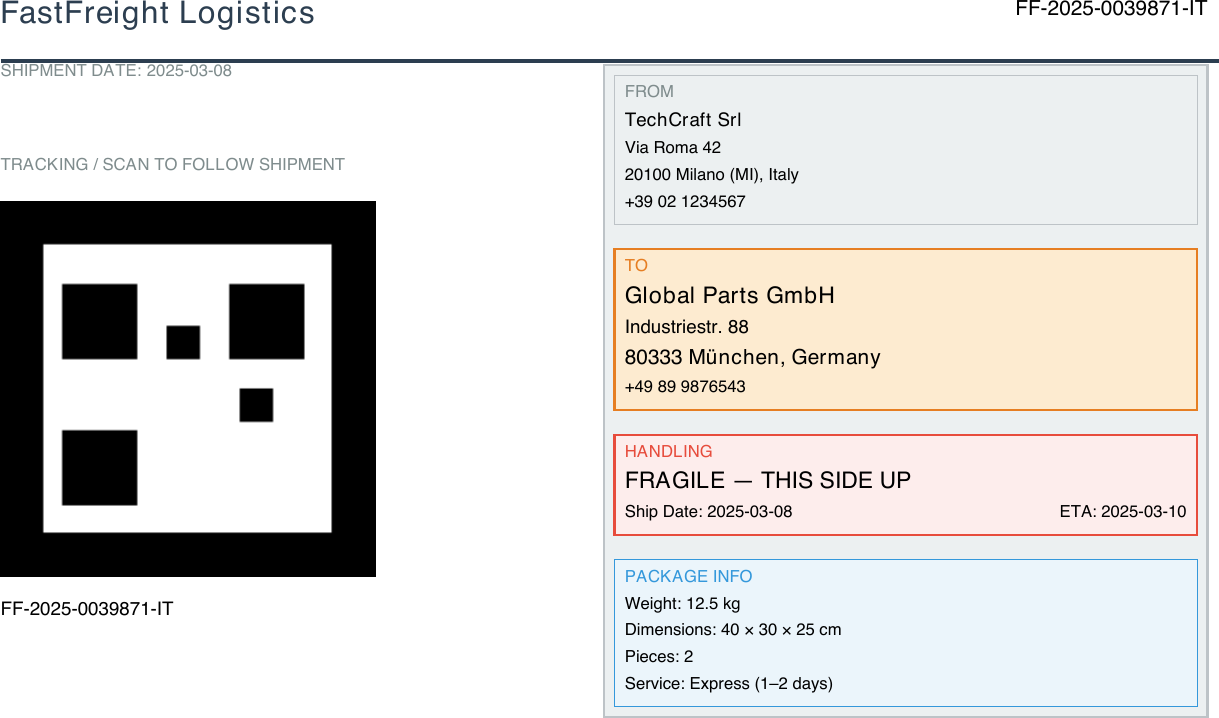
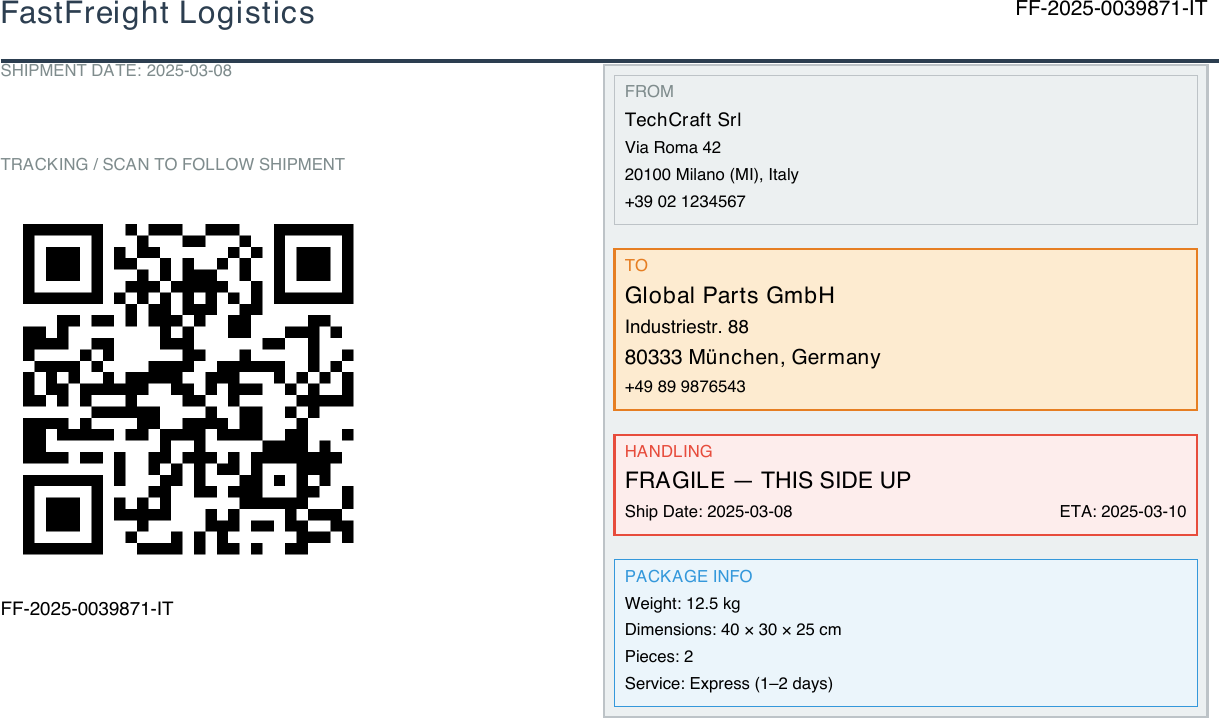
docs: standalone README showcase + real QR in shipping label example
Replace the top-of-README gallery with a single, quality-over-quantity
visual placed right after the "what is Docraft" pitch: one hero image,
the Canvas/Chart snippet that produces it, and one link out to the full
example gallery in the docs.

Also swap the shipping label example's placeholder QR graphic for a
real, scannable QR code (generated with the Python qrcode library) and
re-render its doc image — a small easter egg for anyone who scans it.

Changed region(s): [[0.0, 0.2758, 0.3117, 0.8273]]

diff --git a/README.md b/README.md
@@ -2,36 +2,6 @@
 [![Build and Test](https://github.com/Cadons/Docraft/actions/workflows/build.yml/badge.svg)](https://github.com/Cadons/Docraft/actions/workflows/build.yml)
 [![Documentation](https://github.com/Cadons/Docraft/actions/workflows/docs.yml/badge.svg)](https://github.com/Cadons/Docraft/actions/workflows/docs.yml)
 
-**Write XML, ship a PDF — no LaTeX, no headless browser, no external process.**
-
-<p align="center">
-  <img src="doc/source/_static/sales_report_page1.png" alt="A Docraft-rendered sales report: KPI cards, a pie chart, a bar chart and a trend line, all generated in-process from XML + JSON" width="640">
-</p>
-
-<p align="center"><sub>That entire dashboard is two &lt;Chart&gt; tags on a &lt;Canvas&gt;:</sub></p>
-
-```xml
-<Canvas width="495" height="230">
-    <Chart x="0" y="0" style="pie" width="240" height="220" title="By Product Line">
-        <Series model="${revenue_split}"/>
-    </Chart>
-    <Chart x="250" y="0" style="histogram" width="245" height="220" title="By Region">
-        <Series name="This Quarter" color="#2E86C1" model="${regional_sales}"/>
-    </Chart>
-</Canvas>
-```
-
-<p align="center"><sub>Full template &amp; data: <a href="https://cadons.github.io/docraft/examples/sales_report.html">sales_report.craft example</a></sub></p>
-
-<p align="center">
-  <a href="https://cadons.github.io/docraft/examples/invoice.html"><img src="doc/source/_static/invoice.png" width="200" alt="Invoice example"></a>
-  <a href="https://cadons.github.io/docraft/examples/shipping_label.html"><img src="doc/source/_static/shipping_label.png" width="200" alt="Shipping label example"></a>
-  <a href="https://cadons.github.io/docraft/examples/industrial_report.html"><img src="doc/source/_static/industrial_report_page1.png" width="200" alt="Industrial QC report example"></a>
-</p>
-<p align="center"><sub>Invoice · Shipping label · QC report — browse the <a href="https://cadons.github.io/docraft/examples/index.html">full example gallery</a></sub></p>
-
----
-
 Why Docraft?
 ------------
 
@@ -57,6 +27,29 @@ and Docraft takes care of *how* to lay it out and render it to PDF.
 It ships as a static or shared library that you link into your CMake project.
 The rendering pipeline runs entirely in-process using [libharu](https://github.com/libharu/libharu) as the PDF backend — no spawning of
 external processes, no temporary files, no network calls.
+
+---
+
+<p align="center">
+  <img src="doc/source/_static/sales_report_page1.png" alt="A Docraft-rendered sales report: KPI cards, a pie chart, a bar chart and a trend line, all generated in-process from XML + JSON" width="620">
+</p>
+
+<p align="center"><sub>That entire dashboard is one &lt;Canvas&gt; with two &lt;Chart&gt; tags on it:</sub></p>
+
+```xml
+<Canvas width="495" height="230">
+    <Chart x="0" y="0" style="pie" width="240" height="220" title="By Product Line">
+        <Series model="${revenue_split}"/>
+    </Chart>
+    <Chart x="250" y="0" style="histogram" width="245" height="220" title="By Region">
+        <Series name="This Quarter" color="#2E86C1" model="${regional_sales}"/>
+    </Chart>
+</Canvas>
+```
+
+<p align="center"><sub><a href="https://cadons.github.io/docraft/examples/sales_report.html">Full template &amp; data</a> — more document types (invoices, shipping labels, QC reports...) in the <a href="https://cadons.github.io/docraft/examples/index.html">example gallery</a>.</sub></p>
+
+---
 
 Key Features
 ------------

diff --git a/doc/source/examples/shipping_label.rst b/doc/source/examples/shipping_label.rst
@@ -92,8 +92,9 @@ Data — ``shipping_label.json``
 -------------------------------
 
 ``qr_code`` points at an image file expected next to the ``docraft_tool``
-executable (JSON has no comment syntax, so this can't be noted inline in the
-file itself):
+executable — any PNG works, including a real, scannable QR code generated with
+a tool like `qrcode <https://pypi.org/project/qrcode/>`_ (JSON has no comment
+syntax, so this can't be noted inline in the file itself):
 
 .. code-block:: json
 
@@ -115,7 +116,7 @@ file itself):
      "handling_instructions": "FRAGILE — THIS SIDE UP",
      "ship_date": "2025-03-08",
      "eta": "2025-03-10",
-     "qr_code": "test.png"
+     "qr_code": "qr.png"
    }
 
 Usage
